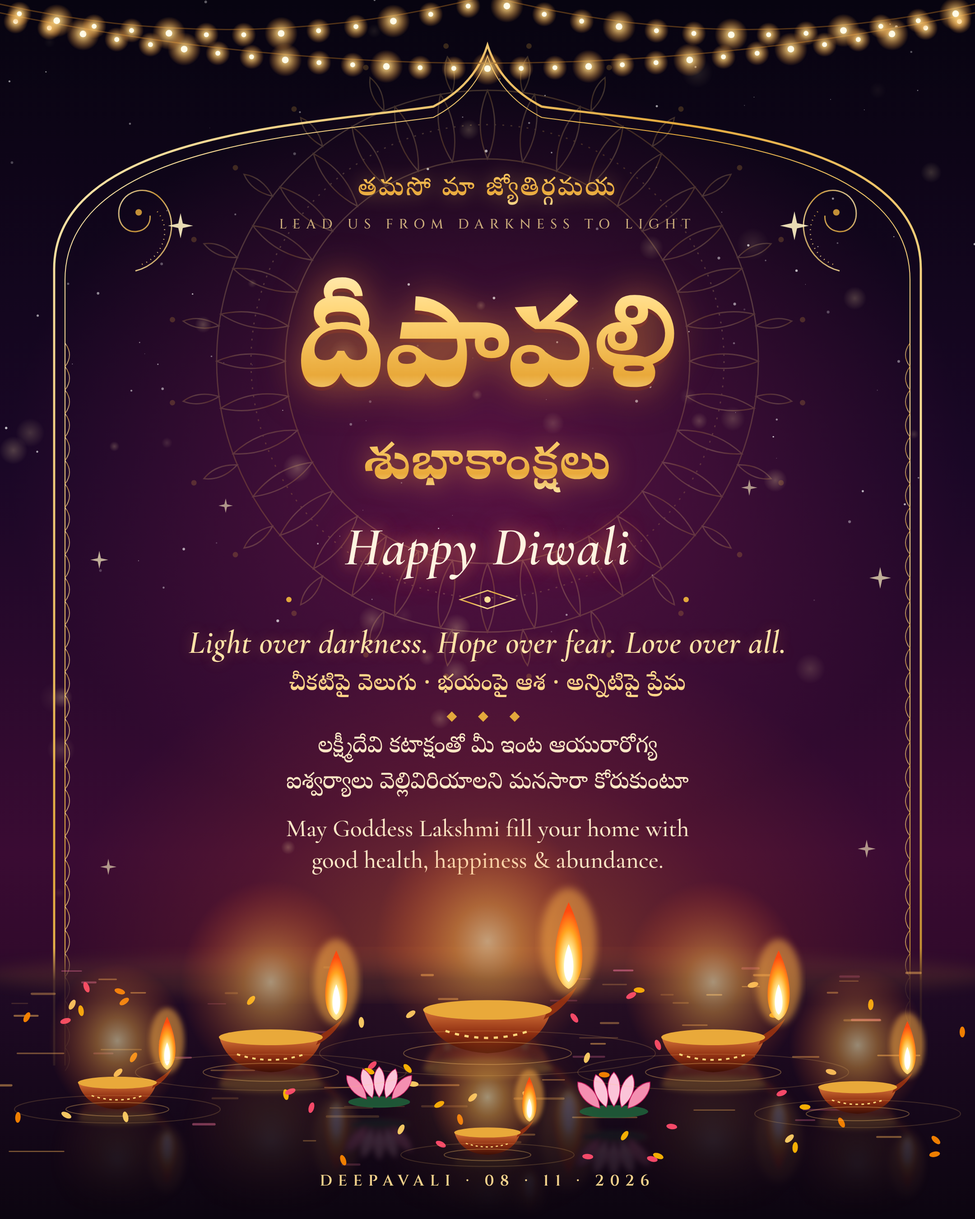
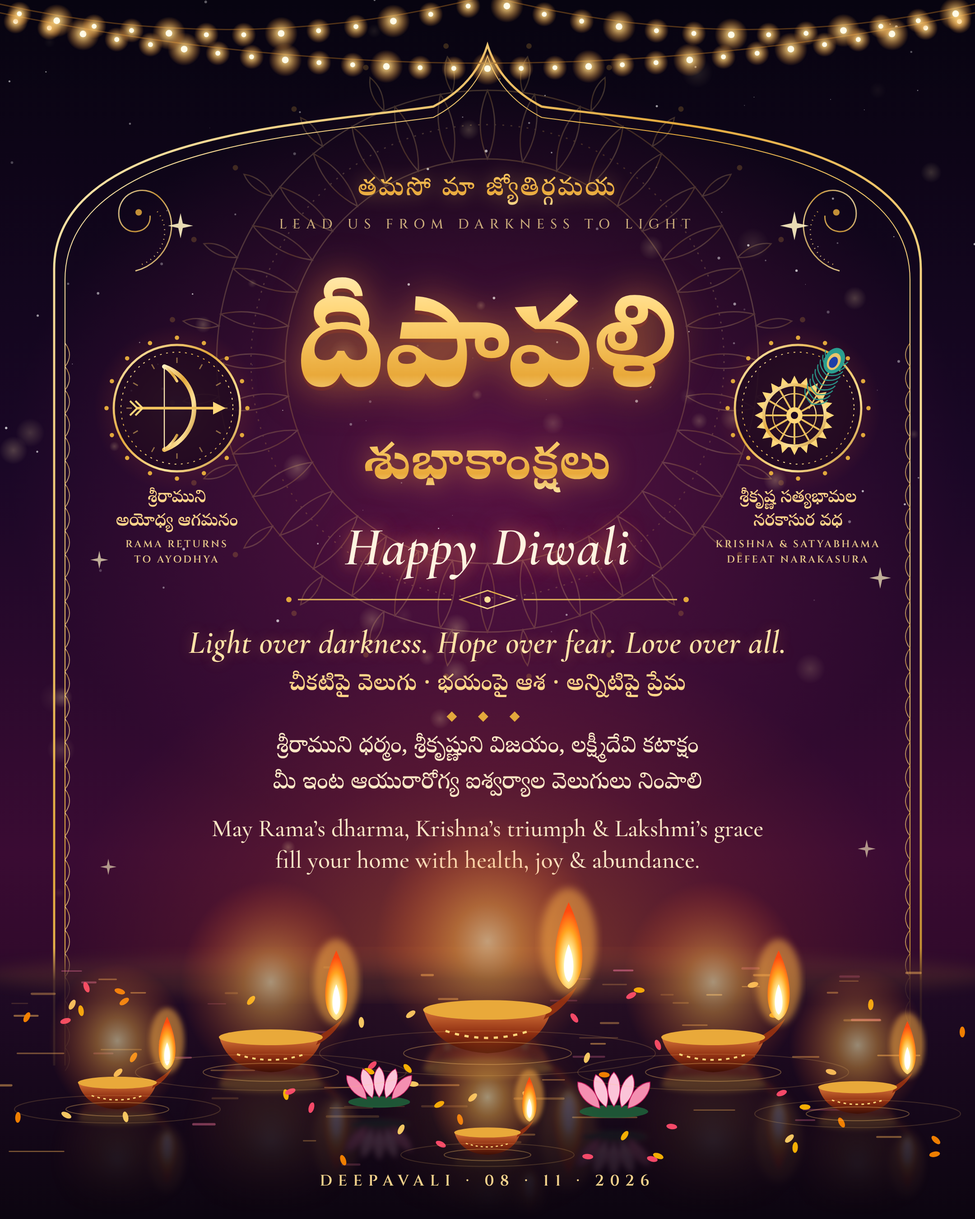
feat(diwali-2026): add Rama's return and Narakasura vadha medallions and blessing
Claude-Session: https://claude.ai/code/session_01AqrYRs6GAapCdvEGLn8hVW

diff --git a/diwali-2026/diwali-wishes.html b/diwali-2026/diwali-wishes.html
@@ -26,9 +26,12 @@
   .punch{top:690px;font-family:'Cormorant Garamond',serif;font-style:italic;font-weight:600;font-size:36px;color:#ffe3a8;letter-spacing:.01em;
     text-shadow:0 0 14px rgba(255,170,80,.35)}
   .punch-te{top:742px;font-family:'Noto Serif Telugu',serif;font-weight:600;font-size:25px;color:#ffd58a;letter-spacing:.02em}
-  .wish-te{top:808px;font-family:'Noto Serif Telugu',serif;font-weight:500;font-size:25px;line-height:1.6;color:#fbe7c6;padding:0 150px}
-  .wish-en{top:900px;font-family:'Cormorant Garamond',serif;font-weight:500;font-size:27px;line-height:1.3;color:#fbe7c6;padding:0 150px}
+  .wish-te{top:808px;font-family:'Noto Serif Telugu',serif;font-weight:500;font-size:25px;line-height:1.6;color:#fbe7c6;padding:0 110px}
+  .wish-en{top:900px;font-family:'Cormorant Garamond',serif;font-weight:500;font-size:27px;line-height:1.3;color:#fbe7c6;padding:0 110px}
   .dots{top:786px;font-family:'Cinzel',serif;font-size:12px;letter-spacing:.8em;color:#e2a83c}
+  .cap{position:absolute;width:240px;text-align:center}
+  .cap .te{font-family:'Noto Serif Telugu',serif;font-weight:600;font-size:19px;color:#ffd58a;line-height:1.35}
+  .cap .en{margin-top:4px;font-family:'Cinzel',serif;font-weight:600;font-size:11px;letter-spacing:.18em;color:#e8c98a;line-height:1.5}
   .foot{top:1296px;font-family:'Cinzel',serif;font-weight:600;font-size:17px;letter-spacing:.38em;color:#f3d28c}
 </style>
 </head>
@@ -43,9 +46,11 @@
   <div class="t punch">Light over darkness. Hope over fear. Love over all.</div>
   <div class="t punch-te">చీకటిపై వెలుగు · భయంపై ఆశ · అన్నిటిపై ప్రేమ</div>
   <div class="t dots">◆ ◆ ◆</div>
-  <div class="t wish-te">లక్ష్మీదేవి కటాక్షంతో మీ ఇంట ఆయురారోగ్య<br>ఐశ్వర్యాలు వెల్లివిరియాలని మనసారా కోరుకుంటూ</div>
-  <div class="t wish-en">May Goddess Lakshmi fill your home with<br>good health, happiness &amp; abundance.</div>
+  <div class="t wish-te">శ్రీరాముని ధర్మం, శ్రీకృష్ణుని విజయం, లక్ష్మీదేవి కటాక్షం<br>మీ ఇంట ఆయురారోగ్య ఐశ్వర్యాల వెలుగులు నింపాలి</div>
+  <div class="t wish-en">May Rama’s dharma, Krishna’s triumph &amp; Lakshmi’s grace<br>fill your home with health, joy &amp; abundance.</div>
   <svg id="fg" width="1080" height="1350" viewBox="0 0 1080 1350"></svg>
+  <div class="cap" style="left:76px;top:540px"><div class="te">శ్రీరాముని<br>అయోధ్య ఆగమనం</div><div class="en">RAMA RETURNS<br>TO AYODHYA</div></div>
+  <div class="cap" style="left:764px;top:540px"><div class="te">శ్రీకృష్ణ సత్యభామల<br>నరకాసుర వధ</div><div class="en">KRISHNA &amp; SATYABHAMA<br>DEFEAT NARAKASURA</div></div>
   <div class="t foot">DEEPAVALI · 08 · 11 · 2026</div>
 </div>
 <script>
@@ -110,7 +115,7 @@ strand(520,-10,1100,0,70,14,2);
 
 // ornamental divider between title and message
 const dv=el(fg,'g',{transform:'translate(540 664)'});
-el(dv,'path',{d:'M-210,0 L-40,0 M40,0 L210,0',stroke:'url(#goldL)','stroke-width':1.4});
+el(dv,'path',{d:'M-210,0 L-40,0 M40,0 L210,0',stroke:'#e2b45a','stroke-width':1.4});
 el(dv,'path',{d:'M-30,0 L0,-10 L30,0 L0,10Z',fill:'none',stroke:'url(#goldL)','stroke-width':1.4});
 el(dv,'circle',{r:3.5,fill:'#ffe29a'});
 [-220,220].forEach(x=>el(dv,'circle',{cx:x,cy:0,r:3,fill:'#e2a83c'}));
@@ -151,9 +156,42 @@ items.forEach(([k,x,y,s])=>k=='d'?diya(fg,x,y,s):lotus(fg,x,y,s));
 // ripple rings under diyas
 items.filter(i=>i[0]=='d').forEach(([k,x,y,s])=>{for(let j=1;j<=2;j++) el(fg,'ellipse',{cx:x,cy:y+30*s,rx:60*s*j,ry:8*s*j,fill:'none',stroke:'#ffc56b','stroke-width':1,opacity:.35/j});});
 
+
+// ---- story medallions: Rama (left) & Krishna (right) ----
+const medal=(x,y)=>{const g=el(fg,'g',{transform:`translate(${x} ${y})`});
+  el(g,'circle',{r:92,fill:'url(#warm)',opacity:.28});
+  el(g,'circle',{r:70,fill:'#1e0820',opacity:.85});
+  el(g,'circle',{r:70,fill:'none',stroke:'url(#goldL)','stroke-width':2.4});
+  el(g,'circle',{r:62,fill:'none',stroke:'url(#goldL)','stroke-width':1,'stroke-dasharray':'2 5'});
+  for(let i=0;i<16;i++){el(g,'circle',{cx:0,cy:-78,r:2.4,fill:'#e2a83c',transform:`rotate(${i*22.5})`});}
+  return g;};
+// Rama: Kodanda bow + arrow, rising sun of the Surya vamsha
+const rg2=medal(196,452);
+for(let i=0;i<12;i++) el(rg2,'line',{x1:0,y1:-50,x2:0,y2:-56,stroke:'#ffcf6b','stroke-width':1.4,opacity:.5,transform:`rotate(${i*30})`});
+el(rg2,'path',{d:'M-14,-46 C30,-30 30,30 -14,46',fill:'none',stroke:'url(#goldL)','stroke-width':5,'stroke-linecap':'round'});
+el(rg2,'path',{d:'M-14,-46 C-6,-40 -2,-34 0,-30 M-14,46 C-6,40 -2,34 0,30',fill:'none',stroke:'url(#goldL)','stroke-width':3,'stroke-linecap':'round'});
+el(rg2,'line',{x1:-14,y1:-46,x2:-14,y2:46,stroke:'#ffe9b0','stroke-width':1.2});
+el(rg2,'line',{x1:-44,y1:0,x2:40,y2:0,stroke:'#f1c25e','stroke-width':3});
+el(rg2,'path',{d:'M40,-7 L54,0 L40,7 Z',fill:'#ffd77a'});
+el(rg2,'path',{d:'M-44,0 l-8,-8 M-44,0 l-8,8 M-38,0 l-8,-8 M-38,0 l-8,8',stroke:'#ffd77a','stroke-width':2});
+// Krishna: Sudarshana chakra + peacock feather
+const kg=medal(884,452);
+const ch=el(kg,'g',{transform:'translate(-4 8)'});
+for(let i=0;i<20;i++) el(ch,'path',{d:'M-5,-34 L0,-44 L5,-34Z',fill:'#ffd77a',transform:`rotate(${i*18})`});
+el(ch,'circle',{r:34,fill:'none',stroke:'url(#goldL)','stroke-width':3.5});
+el(ch,'circle',{r:24,fill:'none',stroke:'url(#goldL)','stroke-width':1.2});
+for(let i=0;i<12;i++) el(ch,'line',{x1:0,y1:-9,x2:0,y2:-32,stroke:'#f1c25e','stroke-width':2,transform:`rotate(${i*30})`});
+el(ch,'circle',{r:9,fill:'#ffd77a'});el(ch,'circle',{r:4,fill:'#1e0820'});
+const pf=el(kg,'g',{transform:'translate(26 -26) rotate(28)'});
+el(pf,'path',{d:'M0,30 Q2,0 0,-34',stroke:'#e9c46a','stroke-width':1.6,fill:'none'});
+for(let i=0;i<9;i++){const yy=24-i*6;el(pf,'path',{d:`M0,${yy} q${-12},-4 ${-14},-12 M0,${yy} q12,-4 14,-12`,stroke:'#2a9d8f','stroke-width':1.3,fill:'none',opacity:.9});}
+el(pf,'ellipse',{cx:0,cy:-30,rx:11,ry:15,fill:'#2a9d8f'});
+el(pf,'ellipse',{cx:0,cy:-29,rx:7,ry:10,fill:'#e9c46a'});
+el(pf,'ellipse',{cx:0,cy:-28,rx:4.5,ry:6.5,fill:'#1d3fa8'});
+
 // gold sparkles
 const sparkle=(x,y,s,o)=>el(fg,'path',{d:'M0,-1 L.18,-.18 1,0 .18,.18 0,1 -.18,.18 -1,0 -.18,-.18Z',fill:'#fff3c4',opacity:o,transform:`translate(${x} ${y}) scale(${s})`});
-[[200,250,14,.9],[880,250,16,.9],[110,620,10,.7],[975,640,12,.7],[250,560,8,.6],[830,540,9,.6],[120,960,9,.6],[960,940,10,.6]].forEach(a=>sparkle(...a));
+[[200,250,14,.9],[880,250,16,.9],[110,620,10,.7],[975,640,12,.7],[120,960,9,.6],[960,940,10,.6]].forEach(a=>sparkle(...a));
 </script>
 </body>
 </html>
